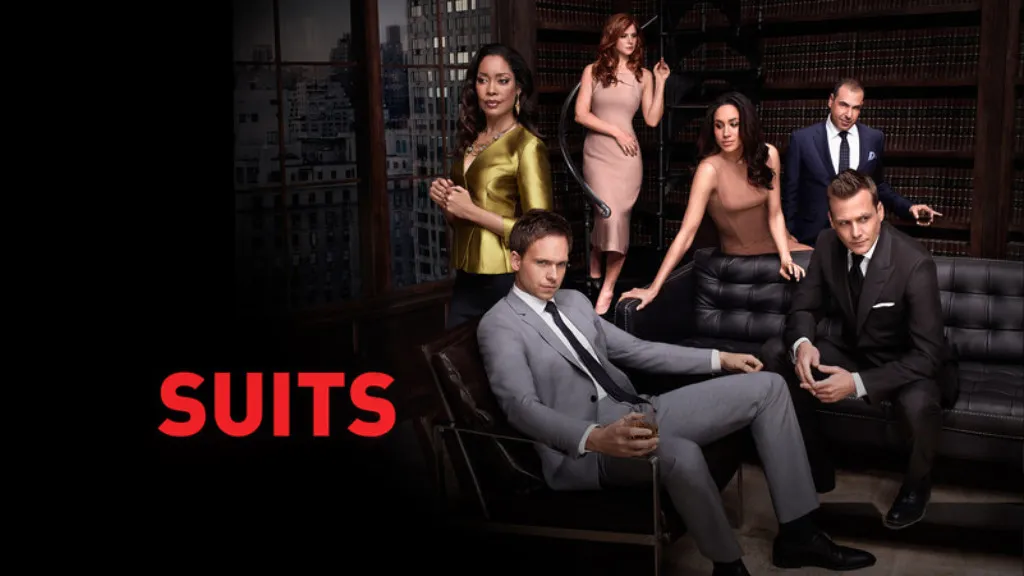
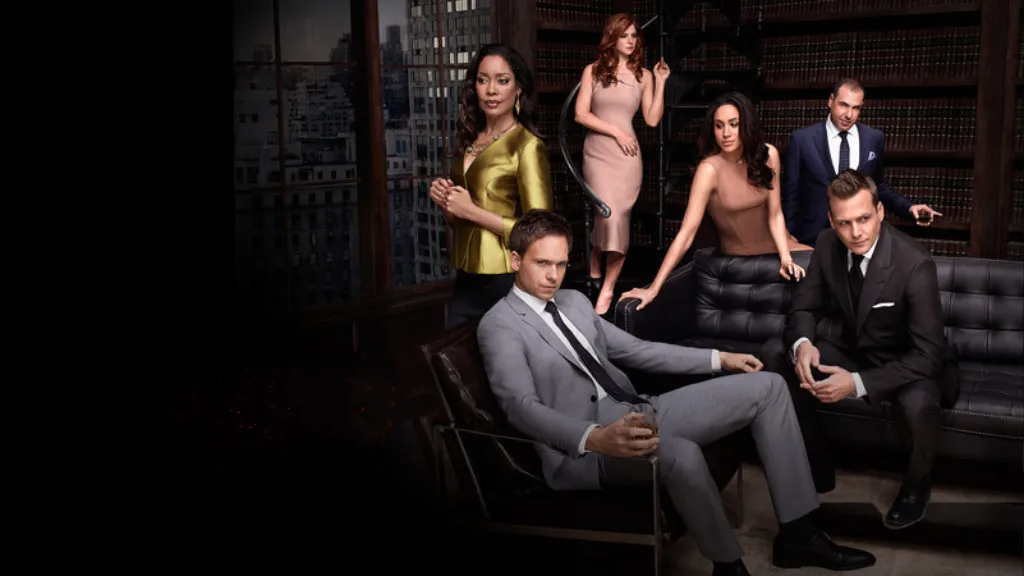
design: make home page responsive

Changed region(s): [[0.1562, 0.625, 0.4062, 0.7812]]

diff --git a/src/app/page.module.css b/src/app/page.module.css
@@ -3,7 +3,12 @@
   height: 100vh;
   display: flex;
   flex-direction: column;
-  background-image: linear-gradient(to bottom, rgba(245, 246, 252, 0.11), black),
+  background-image: linear-gradient(
+      to bottom,
+      rgba(245, 246, 252, 0.11) 0%,
+      rgba(0, 0, 0, 0.7) 50%,
+      black 100%
+    ),
     url("/image/suits-poster.webp");
   background-repeat: no-repeat;
   background-size: cover;
@@ -60,28 +65,53 @@
 
 /* Media queries*/
 
-@media (max-width: 768px) {
+@media (max-width: 1024px) {
+  .main {
+    background-image: linear-gradient(
+        to bottom,
+        rgba(245, 246, 252, 0.11) 0%,
+        rgba(0, 0, 0, 0.7) 50%,
+        black 100%
+      ),
+      url("/image/suits-poster-small.webp");
+    background-position: top;
+    background-size: 70rem;
+  }
+}
+
+@media (max-width: 820px) {
+  .main {
+    background-size: 60rem;
+  }
+
+  .loginButton {
+    font-size: 1.2rem;
+  }
+
   .body {
-    padding: 4rem;
+    padding: 5rem;
   }
 
   .englishWith {
-    font-size: 2.5rem;
-    margin-right: 0;
+    font-size: 3rem;
     text-align: center;
   }
 
   .suits {
-    font-size: 4rem;
-    text-align: center;
+    font-size: 5rem;
   }
 
   .startButton {
+    font-size: 2.5rem;
     margin-top: 1rem;
   }
 }
 
 @media (max-width: 480px) {
+  .main {
+    background-size: 30rem;
+  }
+
   .upperWrapper {
     padding: 1rem;
   }
@@ -91,14 +121,15 @@
   }
 
   .body {
-    padding: 2rem;
+    padding: 3rem;
     align-items: center;
     justify-content: flex-end;
   }
 
   .englishWith {
     font-size: 2rem;
-    text-align: center;
+    margin-right: 0;
+    margin-bottom: 0.5rem;
   }
 
   .suits {
@@ -108,6 +139,7 @@
 
   .startButton {
     font-size: 1.5rem;
-    margin-top: 1rem;
+    margin-top: 2rem;
+    margin-bottom: 1rem;
   }
 }
